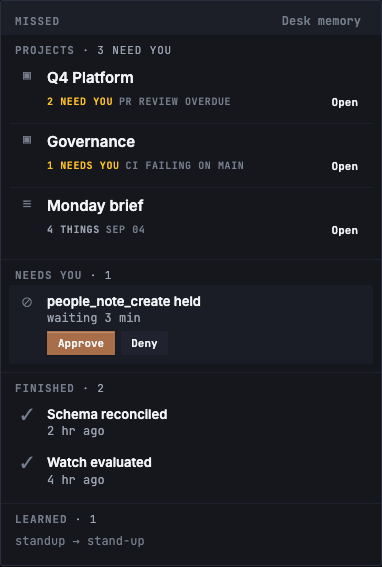
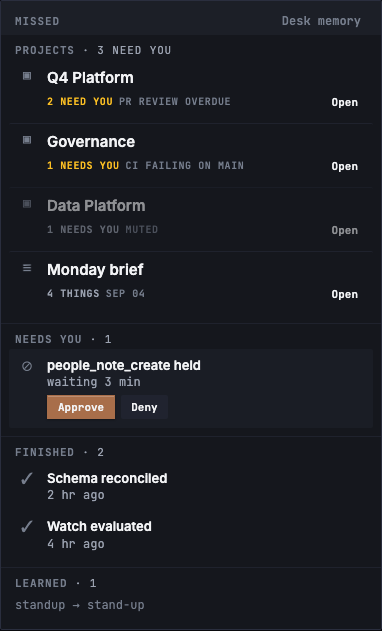
docs(design): HS-171-01 — the MUTED row; the swallowed bubble labelled; ⌘K's cap noted
Claude-Session: https://claude.ai/code/session_016siGSBgZph9EhEdGMoyWcu
PMO-Story: HS-171-01
PMO-Contract-Digest: sha256:3d4e5c9649a43c7617761f6c3c1d1e9a89485aaae0956a13142d60579aa1681b

diff --git a/pm/roadmap/holdspeak/phase-171-the-heartbeat/assets/mockups/RhythmCadenceGenerating.dc.html b/pm/roadmap/holdspeak/phase-171-the-heartbeat/assets/mockups/RhythmCadenceGenerating.dc.html
@@ -1,0 +1,117 @@
+<!doctype html>
+<html>
+<head>
+  <meta charset="utf-8">
+  <script src="./support.js"></script>
+</head>
+<body>
+<x-dc>
+<helmet>
+  <link rel="stylesheet" href="https://fonts.googleapis.com/css2?family=Inter:wght@400;500;600;700&amp;family=JetBrains+Mono:wght@400;500;600;650;700&amp;family=Space+Grotesk:wght@600;650;700&amp;display=swap">
+  <style>
+    body { margin: 0; background: #0e0f13; }
+  </style>
+</helmet>
+
+<!-- ═══ WINDOW "Rhythm" (640) — brief mid-generation ═══ -->
+<div style="width:640px; border:1px solid #363b50; border-radius:2px; background:#15171d; box-shadow:inset 1px 1px 0 rgba(255,255,255,0.14), inset -1px -1px 0 rgba(0,0,0,0.40), inset 0 0 0 1px #2a2e3e; display:flex; flex-direction:column;">
+
+  <!-- ─── TITLE BAR ─── -->
+  <div style="height:40px; padding:0 12px; display:flex; align-items:center; gap:10px; background:#242833; border-radius:1px 1px 0 0; flex-shrink:0;">
+    <div style="display:flex; gap:6px; align-items:center; flex-shrink:0;">
+      <span style="width:12px; height:12px; border-radius:2px; background:#f87171; display:block;"></span>
+      <span style="width:12px; height:12px; border-radius:2px; background:#fbbf24; display:block;"></span>
+      <span style="width:12px; height:12px; border-radius:2px; background:#34d399; display:block;"></span>
+    </div>
+    <span style="flex:1; min-width:0; font:700 17px/1 'Space Grotesk','Inter',system-ui,-apple-system,BlinkMacSystemFont,'Segoe UI',sans-serif; color:#f2f3f5; white-space:nowrap;">Rhythm</span>
+  </div>
+
+  <!-- ─── BODY ─── -->
+  <div style="flex:1; padding:16px 20px 14px; display:flex; flex-direction:column; gap:20px;">
+
+    <!-- ═══ HEAD — display step, accent ═══ -->
+    <div style="display:flex; flex-direction:column; gap:8px;">
+      <div style="font:650 26px/1.15 'Space Grotesk','Inter',system-ui,-apple-system,BlinkMacSystemFont,'Segoe UI',sans-serif; color:#a86e4a;">Every 15 min</div>
+    </div>
+
+    <!-- ═══ MODULE ROWS ═══ -->
+    <div style="display:flex; flex-direction:column;">
+
+      <!-- Row: SWEEP (idle, same as base) -->
+      <div style="display:flex; flex-direction:column; gap:4px; padding:10px 0; border-top:1px solid #2a2e3e;">
+        <div style="display:flex; align-items:center; gap:8px;">
+          <span style="font:600 15px/1.4 'Inter',system-ui,-apple-system,BlinkMacSystemFont,'Segoe UI',sans-serif; color:#f2f3f5; white-space:nowrap;">Sweep</span>
+          <button type="button" style="display:inline-flex; align-items:center; gap:6px; height:28px; padding:0 10px; border:1px solid #2a2e3e; border-radius:2px; background:#1c1f27; box-shadow:inset 1px 1px 0 rgba(255,255,255,0.14), inset -1px -1px 0 rgba(0,0,0,0.40); font:600 13px/1 'JetBrains Mono','SFMono-Regular','SF Mono',Consolas,'Liberation Mono',monospace; color:#f2f3f5; cursor:pointer; white-space:nowrap;">EVERY 15 MIN<svg width="12" height="12" viewBox="0 0 12 12" fill="none" stroke="#9ba2b0" stroke-width="1.5" stroke-linecap="square" style="flex-shrink:0;"><path d="M3 4.5L6 7.5L9 4.5"></path></svg></button>
+          <span style="flex:1;"></span>
+          <button type="button" style="min-height:28px; padding:4px 12px; border:1px solid transparent; border-radius:0; background:transparent; color:#f2f3f5; font:600 12px/1 'JetBrains Mono','SFMono-Regular','SF Mono',Consolas,'Liberation Mono',monospace; cursor:pointer; flex-shrink:0;">Run now</button>
+        </div>
+        <div style="display:flex; flex-wrap:wrap; align-items:center; gap:4px 6px;">
+          <span style="font:600 10px/1 'JetBrains Mono','SFMono-Regular','SF Mono',Consolas,'Liberation Mono',monospace; letter-spacing:0.06em; text-transform:uppercase; color:#9ba2b0; white-space:nowrap;">QUIET 22:00&ndash;08:00 &middot; NEXT 08:05</span>
+          <span style="font:600 10px/1 'JetBrains Mono','SFMono-Regular','SF Mono',Consolas,'Liberation Mono',monospace; letter-spacing:0.06em; text-transform:uppercase; color:#767e8d; white-space:nowrap;">&middot; LAST 07:50 &middot; 3 ROOMS &middot; 41 MS</span>
+        </div>
+      </div>
+
+      <!-- Row: MONDAY BRIEF — mid-generation -->
+      <div style="display:flex; flex-direction:column; gap:4px; padding:10px 0; border-top:1px solid #2a2e3e;">
+        <div style="display:flex; align-items:center; gap:8px;">
+          <span style="font:600 15px/1.4 'Inter',system-ui,-apple-system,BlinkMacSystemFont,'Segoe UI',sans-serif; color:#f2f3f5; white-space:nowrap;">Monday brief</span>
+          <button type="button" style="display:inline-flex; align-items:center; gap:6px; height:28px; padding:0 10px; border:1px solid #2a2e3e; border-radius:2px; background:#1c1f27; box-shadow:inset 1px 1px 0 rgba(255,255,255,0.14), inset -1px -1px 0 rgba(0,0,0,0.40); font:600 13px/1 'JetBrains Mono','SFMono-Regular','SF Mono',Consolas,'Liberation Mono',monospace; color:#f2f3f5; cursor:pointer; white-space:nowrap;">DAILY 08:00<svg width="12" height="12" viewBox="0 0 12 12" fill="none" stroke="#9ba2b0" stroke-width="1.5" stroke-linecap="square" style="flex-shrink:0;"><path d="M3 4.5L6 7.5L9 4.5"></path></svg></button>
+          <span style="flex:1;"></span>
+          <!-- Generate now — DISABLED during generation -->
+          <button type="button" disabled style="min-height:28px; padding:4px 12px; border:1px solid transparent; border-radius:0; background:transparent; color:#f2f3f5; font:600 12px/1 'JetBrains Mono','SFMono-Regular','SF Mono',Consolas,'Liberation Mono',monospace; cursor:default; flex-shrink:0; opacity:0.45;">Generate now</button>
+        </div>
+        <!-- Line 2: GENERATING token replaces NEXT/LAST facts -->
+        <div style="display:flex; flex-wrap:wrap; align-items:center; gap:4px 6px;">
+          <span style="display:inline-flex; align-items:center; gap:5px; min-height:18px; padding:0 8px; border:1px solid #2a2e3e; border-radius:0; background:rgba(0,0,0,0.28); box-shadow:inset 1px 1px 0 rgba(0,0,0,0.30), inset -1px -1px 0 rgba(255,255,255,0.07); font:600 10px/1 'JetBrains Mono','SFMono-Regular','SF Mono',Consolas,'Liberation Mono',monospace; letter-spacing:0.08em; text-transform:uppercase; white-space:nowrap; color:#a86e4a;"><span style="flex:none; font-size:11px; line-height:1;">&#9679;</span>GENERATING</span>
+        </div>
+      </div>
+
+      <!-- Row: NOTIFY (same as base) -->
+      <div style="display:flex; flex-direction:column; gap:4px; padding:10px 0; border-top:1px solid #2a2e3e;">
+        <div style="display:flex; align-items:center; gap:8px;">
+          <span style="font:600 15px/1.4 'Inter',system-ui,-apple-system,BlinkMacSystemFont,'Segoe UI',sans-serif; color:#f2f3f5; white-space:nowrap;">Notify</span>
+          <button type="button" style="display:inline-flex; align-items:center; gap:6px; height:28px; padding:0 10px; border:1px solid #2a2e3e; border-radius:2px; background:#1c1f27; box-shadow:inset 1px 1px 0 rgba(255,255,255,0.14), inset -1px -1px 0 rgba(0,0,0,0.40); font:600 13px/1 'JetBrains Mono','SFMono-Regular','SF Mono',Consolas,'Liberation Mono',monospace; color:#f2f3f5; cursor:pointer; white-space:nowrap;">ON THE EDGE<svg width="12" height="12" viewBox="0 0 12 12" fill="none" stroke="#9ba2b0" stroke-width="1.5" stroke-linecap="square" style="flex-shrink:0;"><path d="M3 4.5L6 7.5L9 4.5"></path></svg></button>
+          <button type="button" style="display:inline-flex; align-items:center; gap:6px; height:28px; padding:0 10px; border:1px solid #2a2e3e; border-radius:2px; background:#1c1f27; box-shadow:inset 1px 1px 0 rgba(255,255,255,0.14), inset -1px -1px 0 rgba(0,0,0,0.40); font:600 13px/1 'JetBrains Mono','SFMono-Regular','SF Mono',Consolas,'Liberation Mono',monospace; color:#f2f3f5; cursor:pointer; white-space:nowrap;">COUNT ONLY<svg width="12" height="12" viewBox="0 0 12 12" fill="none" stroke="#9ba2b0" stroke-width="1.5" stroke-linecap="square" style="flex-shrink:0;"><path d="M3 4.5L6 7.5L9 4.5"></path></svg></button>
+        </div>
+        <div style="display:flex; flex-wrap:wrap; align-items:center; gap:4px 6px;">
+          <button type="button" style="display:inline-flex; align-items:center; gap:4px; min-height:18px; padding:0 8px; border:1px solid #2a2e3e; border-radius:0; background:rgba(0,0,0,0.28); box-shadow:inset 1px 1px 0 rgba(0,0,0,0.30), inset -1px -1px 0 rgba(255,255,255,0.07); font:600 10px/1 'JetBrains Mono','SFMono-Regular','SF Mono',Consolas,'Liberation Mono',monospace; letter-spacing:0.08em; text-transform:uppercase; color:#9ba2b0; cursor:pointer; white-space:nowrap;">Q4 PLATFORM <span style="color:#34d399;">&#10003;</span></button>
+          <button type="button" style="display:inline-flex; align-items:center; gap:4px; min-height:18px; padding:0 8px; border:1px solid #2a2e3e; border-radius:0; background:rgba(0,0,0,0.28); box-shadow:inset 1px 1px 0 rgba(0,0,0,0.30), inset -1px -1px 0 rgba(255,255,255,0.07); font:600 10px/1 'JetBrains Mono','SFMono-Regular','SF Mono',Consolas,'Liberation Mono',monospace; letter-spacing:0.08em; text-transform:uppercase; color:#9ba2b0; cursor:pointer; white-space:nowrap;">GOVERNANCE <span style="color:#34d399;">&#10003;</span></button>
+        </div>
+      </div>
+
+    </div>
+
+    <!-- ═══ LOOPS ═══ -->
+    <div style="display:flex; flex-direction:column; gap:6px;">
+      <div style="display:flex; align-items:baseline; gap:8px; border-top:1px solid rgba(255,255,255,0.035); padding-top:8px;">
+        <h3 style="margin:0; font:600 11px/1 'JetBrains Mono','SFMono-Regular','SF Mono',Consolas,'Liberation Mono',monospace; letter-spacing:0.06em; text-transform:uppercase; color:#9ba2b0;">NOW <span style="color:#f2f3f5;">2</span></h3>
+      </div>
+      <div style="display:flex; flex-direction:column; gap:2px;">
+        <div style="display:flex; align-items:center; gap:8px; border:1px solid #2a2e3e; border-radius:2px; padding:8px 12px;">
+          <span style="font:600 15px/1.4 'Inter',system-ui,-apple-system,BlinkMacSystemFont,'Segoe UI',sans-serif; color:#f2f3f5; flex:1; min-width:0; white-space:nowrap; overflow:hidden; text-overflow:ellipsis;">Stale PR reviews</span>
+          <span style="font:600 10px/1 'JetBrains Mono','SFMono-Regular','SF Mono',Consolas,'Liberation Mono',monospace; letter-spacing:0.06em; text-transform:uppercase; color:#9ba2b0; white-space:nowrap;">CADENCE</span>
+          <span style="font:600 10px/1 'JetBrains Mono','SFMono-Regular','SF Mono',Consolas,'Liberation Mono',monospace; letter-spacing:0.06em; text-transform:uppercase; color:#767e8d; white-space:nowrap;">2 HR AGO</span>
+        </div>
+        <div style="display:flex; align-items:center; gap:8px; border:1px solid #2a2e3e; border-radius:2px; padding:8px 12px;">
+          <span style="font:600 15px/1.4 'Inter',system-ui,-apple-system,BlinkMacSystemFont,'Segoe UI',sans-serif; color:#f2f3f5; flex:1; min-width:0; white-space:nowrap; overflow:hidden; text-overflow:ellipsis;">Sprint deliverables overdue</span>
+          <span style="font:600 10px/1 'JetBrains Mono','SFMono-Regular','SF Mono',Consolas,'Liberation Mono',monospace; letter-spacing:0.06em; text-transform:uppercase; color:#9ba2b0; white-space:nowrap;">CADENCE</span>
+          <span style="font:600 10px/1 'JetBrains Mono','SFMono-Regular','SF Mono',Consolas,'Liberation Mono',monospace; letter-spacing:0.06em; text-transform:uppercase; color:#767e8d; white-space:nowrap;">5 HR AGO</span>
+        </div>
+      </div>
+    </div>
+
+  </div>
+
+  <!-- ─── FOOTER ─── -->
+  <footer style="height:36px; padding:0 12px; background:#1c1f27; border-top:1px solid #2a2e3e; box-shadow:inset 1px 1px 0 rgba(255,255,255,0.14), inset -1px -1px 0 rgba(0,0,0,0.40); flex-shrink:0;">
+    <div style="display:flex; align-items:center; height:100%; gap:8px;">
+      <span style="display:inline-flex; align-items:center; min-height:18px; padding:0 8px; border:1px solid #2a2e3e; border-radius:0; background:rgba(0,0,0,0.28); box-shadow:inset 1px 1px 0 rgba(0,0,0,0.30), inset -1px -1px 0 rgba(255,255,255,0.07); font:600 10px/1 'JetBrains Mono','SFMono-Regular','SF Mono',Consolas,'Liberation Mono',monospace; letter-spacing:0.08em; text-transform:uppercase; color:#a86e4a; white-space:nowrap;">THIS DEVICE</span>
+      <span style="flex:1;"></span>
+      <span style="font:600 10px/1 'JetBrains Mono','SFMono-Regular','SF Mono',Consolas,'Liberation Mono',monospace; letter-spacing:0.06em; text-transform:uppercase; color:#767e8d;">WRITTEN 09:41</span>
+    </div>
+  </footer>
+
+</div>
+</x-dc>
+</body>
+</html>

diff --git a/pm/roadmap/holdspeak/phase-171-the-heartbeat/assets/mockups/Main.dc.html b/pm/roadmap/holdspeak/phase-171-the-heartbeat/assets/mockups/Main.dc.html
@@ -57,6 +57,20 @@
       </div>
     </div>
 
+    <!-- SurfaceLedgerRow 3: Data Platform — 1 needs you, MUTED (dimmed, excluded from caption count) -->
+    <div style="display:grid; grid-template-columns:24px minmax(0, 1fr); gap:2px 8px; padding:7px 6px 9px; border-top:1px solid rgba(42,46,62,0.5); border-radius:2px; opacity:0.55;">
+      <span style="text-align:center; padding-top:1px; font:700 13px/1 'JetBrains Mono','SFMono-Regular','SF Mono',Consolas,'Liberation Mono',monospace; color:#767e8d;">&#9635;</span>
+      <div style="display:flex; flex-direction:column; gap:2px; min-width:0;">
+        <strong style="font:600 15px/1.4 'Inter',system-ui,-apple-system,BlinkMacSystemFont,'Segoe UI',sans-serif; color:#f2f3f5; white-space:nowrap; overflow:hidden; text-overflow:ellipsis;">Data Platform</strong>
+        <div style="display:flex; align-items:center; gap:6px;">
+          <span style="font:600 10px/1 'JetBrains Mono','SFMono-Regular','SF Mono',Consolas,'Liberation Mono',monospace; letter-spacing:0.06em; text-transform:uppercase; color:#9ba2b0; white-space:nowrap;">1 NEEDS YOU</span>
+          <span style="font:600 10px/1 'JetBrains Mono','SFMono-Regular','SF Mono',Consolas,'Liberation Mono',monospace; letter-spacing:0.06em; text-transform:uppercase; color:#767e8d; white-space:nowrap;">MUTED</span>
+          <span style="flex:1;"></span>
+          <button type="button" style="min-height:24px; padding:2px 8px; border:1px solid transparent; border-radius:0; background:transparent; color:#f2f3f5; font:600 11px/1 'JetBrains Mono','SFMono-Regular','SF Mono',Consolas,'Liberation Mono',monospace; cursor:pointer; flex-shrink:0;">Open</button>
+        </div>
+      </div>
+    </div>
+
     <!-- Monday brief row (D2(f): inside PROJECTS section) -->
     <div style="display:grid; grid-template-columns:24px minmax(0, 1fr); gap:2px 8px; padding:7px 6px 9px; border-top:1px solid rgba(42,46,62,0.5); border-radius:2px;">
       <span style="text-align:center; padding-top:1px; font:700 13px/1 'JetBrains Mono','SFMono-Regular','SF Mono',Consolas,'Liberation Mono',monospace; color:#767e8d;">&#9776;</span>

diff --git a/pm/roadmap/holdspeak/phase-171-the-heartbeat/assets/mockups/ShadePhone.dc.html b/pm/roadmap/holdspeak/phase-171-the-heartbeat/assets/mockups/ShadePhone.dc.html
@@ -56,6 +56,19 @@
       </div>
     </div>
 
+    <!-- SurfaceLedgerRow 3: Data Platform — MUTED (dimmed, excluded from caption count) -->
+    <div style="display:flex; flex-wrap:wrap; align-items:center; gap:4px 8px; padding:7px 6px 9px; border-top:1px solid rgba(42,46,62,0.5); opacity:0.55;">
+      <span style="width:24px; flex-shrink:0; text-align:center; font:700 13px/1 'JetBrains Mono','SFMono-Regular','SF Mono',Consolas,'Liberation Mono',monospace; color:#767e8d;">&#9635;</span>
+      <span style="flex:1; min-width:0; font:600 14px/1.4 'Inter',system-ui,-apple-system,BlinkMacSystemFont,'Segoe UI',sans-serif; color:#f2f3f5; overflow-wrap:anywhere;">Data Platform</span>
+      <div style="width:100%; padding-left:32px; display:flex; align-items:center; justify-content:space-between; gap:6px;">
+        <div style="display:flex; flex-wrap:wrap; align-items:center; gap:4px 6px; min-width:0;">
+          <span style="font:600 10px/1 'JetBrains Mono','SFMono-Regular','SF Mono',Consolas,'Liberation Mono',monospace; letter-spacing:0.06em; text-transform:uppercase; color:#9ba2b0; white-space:nowrap;">1 NEEDS YOU</span>
+          <span style="font:600 10px/1 'JetBrains Mono','SFMono-Regular','SF Mono',Consolas,'Liberation Mono',monospace; letter-spacing:0.06em; text-transform:uppercase; color:#767e8d; white-space:nowrap;">MUTED</span>
+        </div>
+        <button type="button" style="min-height:24px; padding:2px 8px; border:1px solid transparent; border-radius:0; background:transparent; color:#f2f3f5; font:600 11px/1 'JetBrains Mono','SFMono-Regular','SF Mono',Consolas,'Liberation Mono',monospace; cursor:pointer; flex-shrink:0;">Open</button>
+      </div>
+    </div>
+
     <!-- Monday brief row -->
     <div style="display:flex; flex-wrap:wrap; align-items:center; gap:4px 8px; padding:7px 6px 9px; border-top:1px solid rgba(42,46,62,0.5);">
       <span style="width:24px; flex-shrink:0; text-align:center; font:700 13px/1 'JetBrains Mono','SFMono-Regular','SF Mono',Consolas,'Liberation Mono',monospace; color:#767e8d;">&#9776;</span>

diff --git a/pm/roadmap/holdspeak/phase-171-the-heartbeat/assets/mockups/Notification.dc.html b/pm/roadmap/holdspeak/phase-171-the-heartbeat/assets/mockups/Notification.dc.html
@@ -34,7 +34,8 @@
     </div>
   </div>
 
-  <!-- State 2: quiet hours held -->
+  <!-- State 2: design-only — this banner is NEVER fired -->
+  <div style="font:600 10px/1 'JetBrains Mono','SFMono-Regular','SF Mono',Consolas,'Liberation Mono',monospace; letter-spacing:0.06em; text-transform:uppercase; color:#767e8d; padding:0 0 6px;">SWALLOWED IN QUIET HOURS &middot; NEVER FIRED</div>
   <div style="width:360px; height:72px; display:flex; align-items:center; gap:12px; padding:12px 16px; border-radius:14px; background:rgba(40,42,54,0.92); backdrop-filter:blur(30px); box-shadow:0 4px 20px rgba(0,0,0,0.4), inset 0 0.5px 0 rgba(255,255,255,0.08); box-sizing:border-box;">
     <div style="width:36px; height:36px; border-radius:8px; background:#1c1f27; border:1px solid #363b50; display:grid; place-items:center; flex-shrink:0;">
       <span style="font:700 14px/1 'Space Grotesk','Inter',system-ui,sans-serif; color:#a86e4a;">H</span>

diff --git a/pm/roadmap/holdspeak/phase-171-the-heartbeat/assets/mockups/CommandDeckProjects.dc.html b/pm/roadmap/holdspeak/phase-171-the-heartbeat/assets/mockups/CommandDeckProjects.dc.html
@@ -13,6 +13,7 @@
   </style>
 </helmet>
 
+<!-- PROJECTS lists at most 10 Rooms by needs-you count then name -->
 <!-- ═══ COMMAND DECK (Cmd+K) — with PROJECTS group, 1440 ═══ -->
 <!-- The deck is 400px wide, positioned at top-right. Dense 26px
      mono ledger rows in section bands. The PROJECTS group carries
